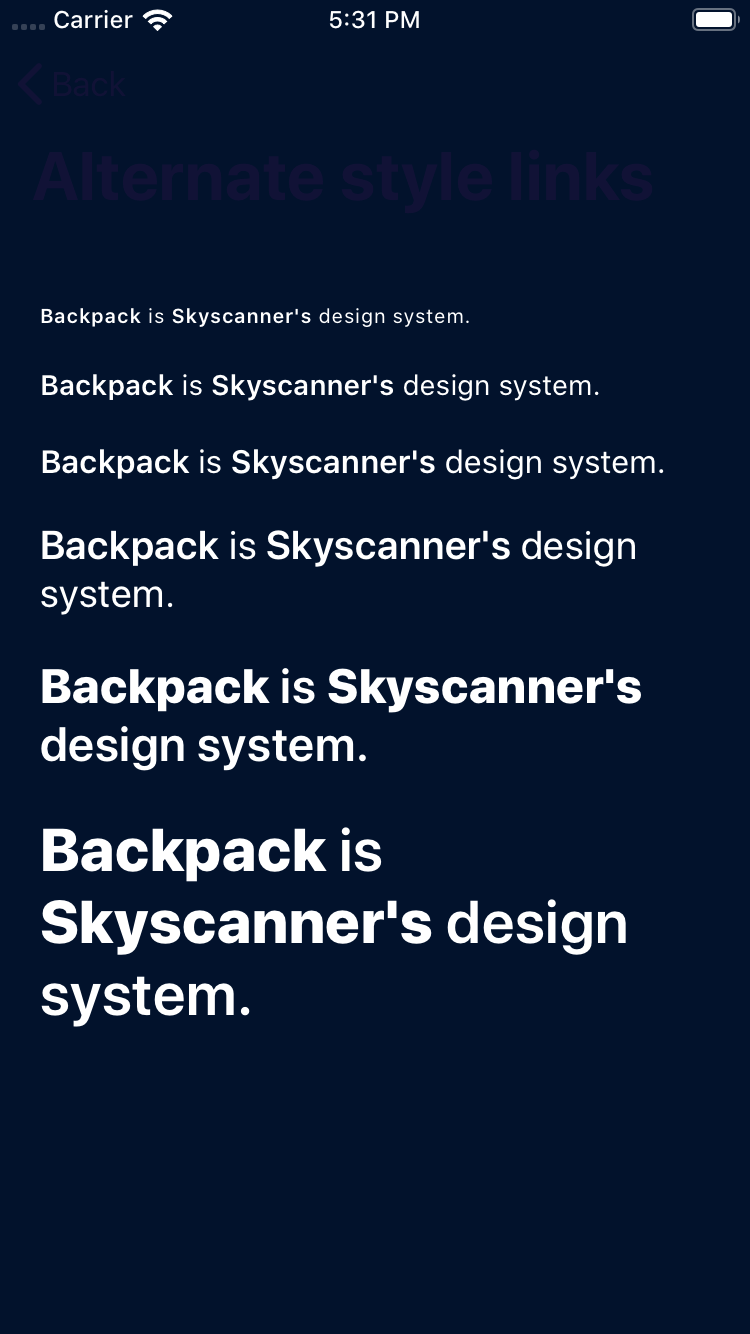
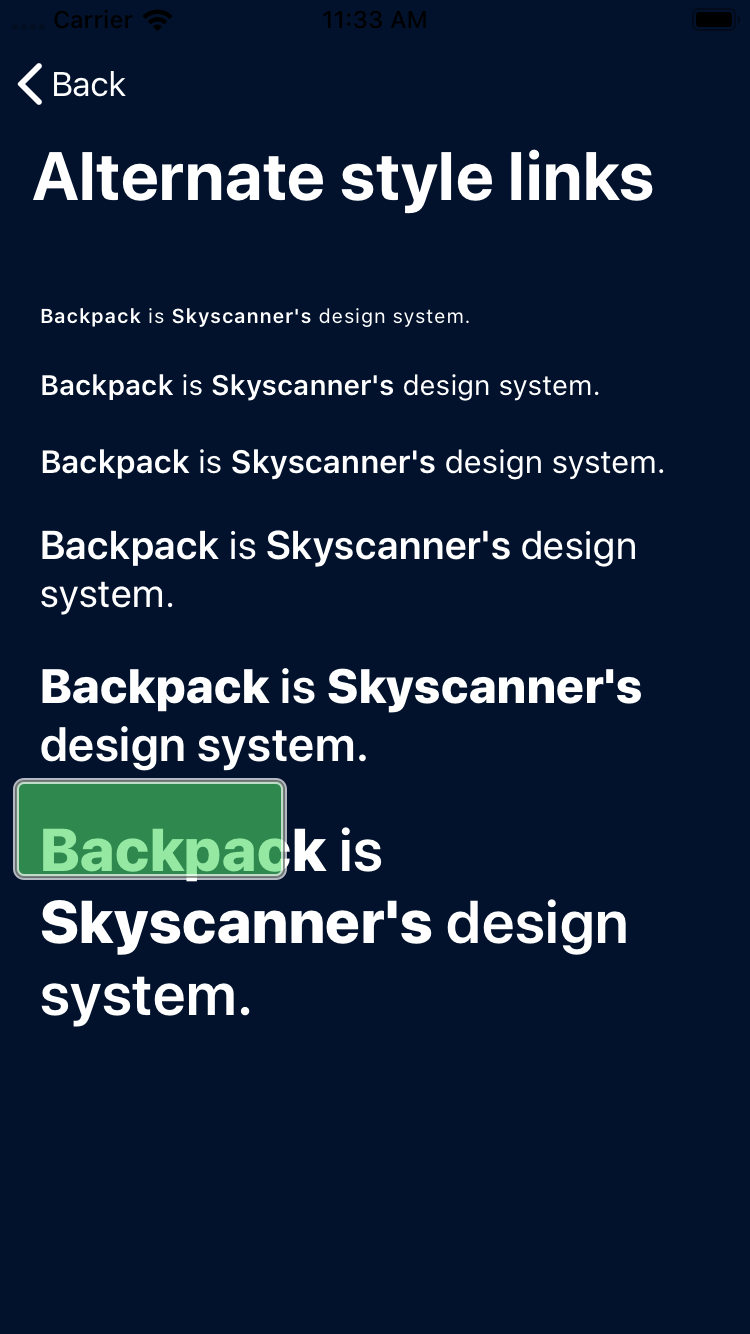
[NO-JIRA] Improve tappable link label background color

diff --git a/Example/Backpack/View Controllers/TappableLinkLabelsViewController.swift b/Example/Backpack/View Controllers/TappableLinkLabelsViewController.swift
@@ -45,6 +45,26 @@ class TappableLinkLabelsViewController: UIViewController, BPKTappableLinkLabelDe
     @IBOutlet var tappableLinks: [TappableLinkLabel]!
     @IBOutlet var displayView: UIView!
 
+    override func viewWillAppear(_ animated: Bool) {
+        super.viewWillAppear(animated)
+
+        if self.style == .alternate {
+            let titleAttributes = [NSAttributedString.Key.foregroundColor: Color.white]
+            self.navigationController?.navigationBar.titleTextAttributes = titleAttributes
+            self.navigationController?.navigationBar.largeTitleTextAttributes = titleAttributes
+            self.navigationController?.navigationBar.tintColor = Color.white
+        }
+    }
+
+    override func viewWillDisappear(_ animated: Bool) {
+        super .viewWillDisappear(animated)
+
+        let titleAttributes = [NSAttributedString.Key.foregroundColor: Color.skyGray]
+        self.navigationController?.navigationBar.titleTextAttributes = titleAttributes
+        self.navigationController?.navigationBar.largeTitleTextAttributes = titleAttributes
+        self.navigationController?.navigationBar.tintColor = Color.skyGray
+    }
+
     override func viewDidLoad() {
         super.viewDidLoad()
 

diff --git a/Example/Backpack/View Controllers/BPKButtonsViewController.m b/Example/Backpack/View Controllers/BPKButtonsViewController.m
@@ -48,8 +48,9 @@ NS_ASSUME_NONNULL_BEGIN
     [super viewWillAppear:animated];
 
     if (self.style == BPKButtonStyleOutline) {
-        self.navigationController.navigationBar.titleTextAttributes = @{NSForegroundColorAttributeName: BPKColor.white};
-        self.navigationController.navigationBar.largeTitleTextAttributes = @{NSForegroundColorAttributeName: BPKColor.white};
+        NSDictionary<NSAttributedStringKey, id> *titleAttributes = @{NSForegroundColorAttributeName: BPKColor.white};
+        self.navigationController.navigationBar.titleTextAttributes = titleAttributes;
+        self.navigationController.navigationBar.largeTitleTextAttributes = titleAttributes;
         self.navigationController.navigationBar.tintColor = BPKColor.white;
     }
 
@@ -57,8 +58,11 @@ NS_ASSUME_NONNULL_BEGIN
 }
 
 - (void)viewWillDisappear:(BOOL)animated {
-    self.navigationController.navigationBar.titleTextAttributes = @{NSForegroundColorAttributeName: BPKColor.skyGray};
-    self.navigationController.navigationBar.largeTitleTextAttributes = @{NSForegroundColorAttributeName: BPKColor.skyGray};
+    [super viewWillDisappear:animated];
+
+    NSDictionary<NSAttributedStringKey, id> *titleAttributes = @{NSForegroundColorAttributeName: BPKColor.skyGray};
+    self.navigationController.navigationBar.titleTextAttributes = titleAttributes;
+    self.navigationController.navigationBar.largeTitleTextAttributes = titleAttributes;
     self.navigationController.navigationBar.tintColor = BPKColor.skyGray;
 }
 
